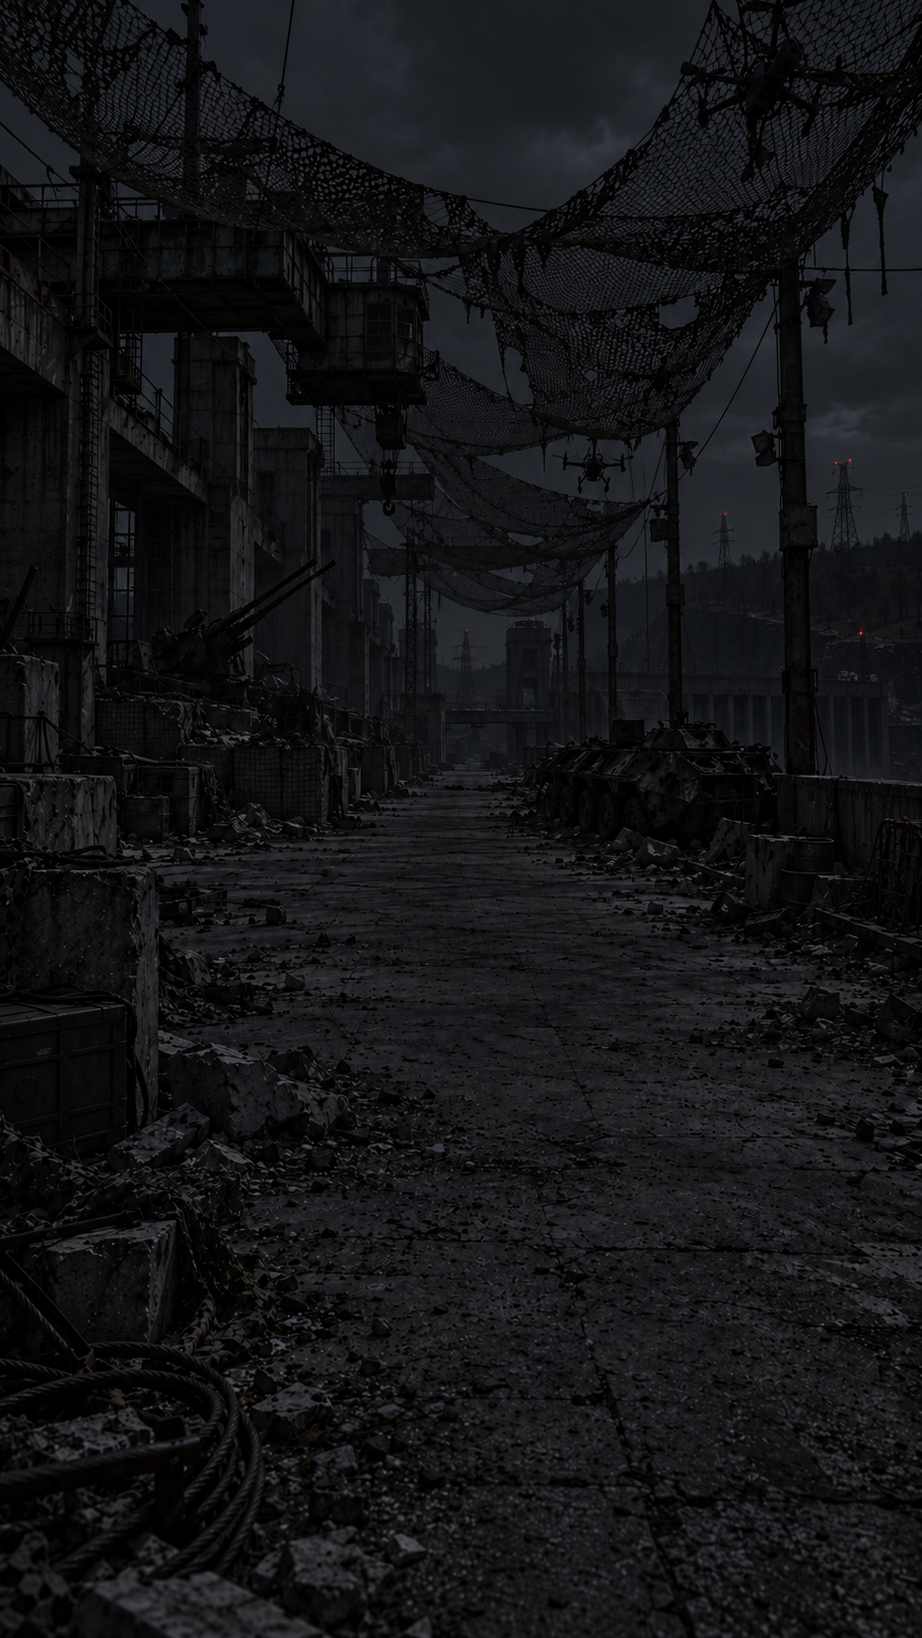
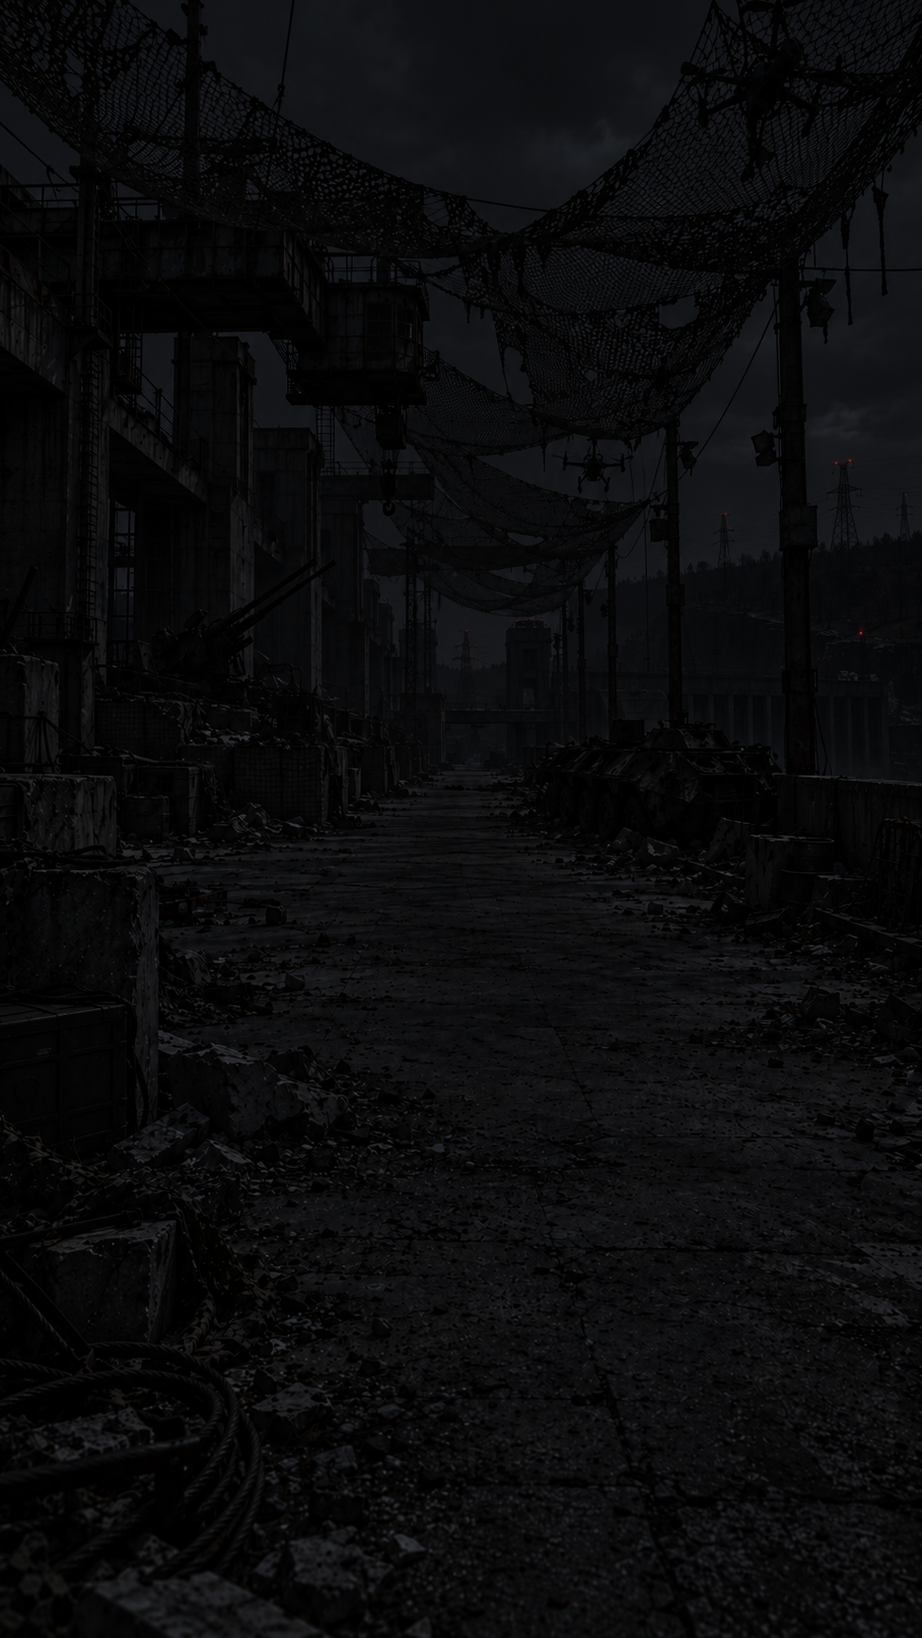
Darker street nights and menu pickers for time and weather
Night plates of the Blocks, the Dam and the Dry Bed now sit at the salt hall's night brightness. The battle menu can pin the time of day and the weather for testing; the pick holds on every map until 'По часам' is chosen and restarts the fight with the same kit.

Changed region(s): [[0.4315, 0.933, 0.4623, 0.9641], [0.2465, 0.622, 0.2774, 0.6531], [0.1849, 0.9952, 0.2157, 1.0]]

diff --git a/apps/web/test/browser-battle-rust.test.ts b/apps/web/test/browser-battle-rust.test.ts
@@ -310,6 +310,41 @@ test("map changes preserve the fitted kit and move to that map's own hour", asyn
   assert.equal(h.stored.get("cd-map"), "dryBed");
 }, { now: MIDNIGHT + GAME_HOUR / 60 }));
 
+test("menu time and weather pickers override the clock until it is chosen again", async () => harness(async h => {
+  const kit = { ...starterLoadout("rifle"), head: "head-sych" };
+  const start = h.battle!.start(kit, () => {}, async () => {}, undefined); await h.ready(); await start;
+  assert.equal(h.duel().match.config.time, "night");
+  h.click("moreBtn");
+  const names = (seg: string) => [...h.element(seg).children].map(b => b.innerHTML);
+  assert.deepEqual(names("timeSeg"), ["По часам", "Утро", "День", "Вечер", "Ночь"]);
+  assert.deepEqual(names("weatherSeg"), ["По часам", "Ясно", "Туман", "Пыль", "Гроза"]);
+  assert.equal(h.element("timeSeg").children[0]!.getAttribute("aria-pressed"), "true");
+  const first = h.duel();
+  h.element("timeSeg").children[2]!.click();
+  assert.notEqual(h.duel(), first, "a pick starts a new fight");
+  assert.deepEqual(h.duel().fighters[0].kit, kit);
+  assert.equal(h.duel().match.config.time, "day");
+  assert.equal(h.stored.get("cd-test-time"), "day");
+  h.click("moreBtn");
+  h.element("weatherSeg").children[4]!.click();
+  assert.equal(h.duel().match.config.weather, "storm");
+  assert.equal(h.duel().match.config.time, "day", "the time pick holds");
+  h.click("moreBtn");
+  assert.equal(h.element("weatherSeg").children[4]!.getAttribute("aria-pressed"), "true");
+  assert.match(h.element("clockNote").textContent, /отключены/);
+  h.element("mapSeg").children[1]!.click();
+  assert.equal(h.duel().match.config.mapId, "blocks");
+  assert.equal(h.duel().match.config.weather, "storm", "picks follow to another map");
+  h.click("moreBtn");
+  h.element("timeSeg").children[0]!.click();
+  h.click("moreBtn");
+  h.element("weatherSeg").children[0]!.click();
+  assert.equal(h.stored.get("cd-test-time"), "");
+  assert.equal(h.duel().match.config.weather, world(h.now, "blocks").weather);
+  h.click("moreBtn");
+  assert.doesNotMatch(h.element("clockNote").textContent, /отключены/);
+}, { now: MIDNIGHT + GAME_HOUR / 60 }));
+
 test("saved blocks map is restored at its own hour", async () => harness(async h => {
   assert.equal(h.duel().match.config.mapId, "blocks");
   assert.equal(h.duel().match.config.time, "day");

diff --git a/apps/web/index.html b/apps/web/index.html
@@ -158,6 +158,8 @@
       <div class="label" id="mapLabel">Карта</div>
       <div class="seg" id="mapSeg"></div>
       <div class="label" id="frameLabel">Время и погода</div>
+      <div class="seg" id="timeSeg"></div>
+      <div class="seg" id="weatherSeg"></div>
       <p class="gfx-note" id="clockNote"></p>
       <p class="gfx-note" id="conditionNote"></p>
       <p class="gfx-note">Сутки в игре длятся час, у каждой карты своё время и своя погода. Выбор карты начинает новый бой с вашим комплектом.</p>

diff --git a/crates/game-wasm/src/browser/battle.rs b/crates/game-wasm/src/browser/battle.rs
@@ -1161,19 +1161,28 @@ fn option(parent: &JsValue, content: &str, selected: bool, action: impl FnMut(Js
     call(parent, "appendChild", &[b]);
 }
 /// The game clock picks the map's hour and weather. Address keys (`time`,
-/// `weather`, `frame`, `map`, `cal`) pin them for checks and screenshots.
+/// `weather`, `frame`, `map`, `cal`) pin them for checks and screenshots; the
+/// menu's test pickers pin time and weather until "По часам" is chosen again.
 fn live_frame(s: &JsValue, map: Option<&str>) -> JsValue {
     let params = construct(
         &get(&global(), "URLSearchParams"),
         &[get(&get(&global(), "location"), "search")],
     );
     let param = |key: &str| call(&params, "get", &[key.into()]);
+    let pinned = |key: &str, stored: &str| {
+        let value = param(key);
+        if value.is_null() {
+            store_get(s, stored)
+        } else {
+            value
+        }
+    };
     core(
         "client.conditions.live",
         &[
             get(s, "frames"),
             object(&[
-                ("time", param("time")),
+                ("time", pinned("time", "cd-test-time")),
                 (
                     "frame",
                     if map.is_some() {
@@ -1185,7 +1194,7 @@ fn live_frame(s: &JsValue, map: Option<&str>) -> JsValue {
                 ("cal", call(&params, "has", &["cal".into()])),
                 ("map", map.map_or_else(|| param("map"), JsValue::from)),
                 ("savedMap", store_get(s, "cd-map")),
-                ("weather", param("weather")),
+                ("weather", pinned("weather", "cd-test-weather")),
                 ("now", js_sys::Date::now().into()),
             ]),
         ],
@@ -1393,6 +1402,34 @@ fn render_menu(s: &JsValue) {
     }
     let c = clock_of(&current_map);
     hide(&id("frameLabel"), false);
+    // Test pickers: a choice holds until "По часам" and starts a new fight with the same kit.
+    let picks = core(
+        "client.conditions.picks",
+        &[get(s, "frames"), current_map.as_str().into()],
+    );
+    let mut manual = false;
+    for (seg, key, list) in [
+        ("timeSeg", "cd-test-time", "times"),
+        ("weatherSeg", "cd-test-weather", "weathers"),
+    ] {
+        let chosen = store_get(s, key).as_string().unwrap_or_default();
+        let options = values(&get(&picks, list));
+        let known = options.iter().any(|o| word(o, "id") == chosen);
+        manual |= known && !chosen.is_empty();
+        let row = segment(seg, options.len());
+        for choice in options {
+            let wanted = word(&choice, "id");
+            let current = wanted == chosen || (!known && wanted.is_empty());
+            let state = s.clone();
+            let map = current_map.clone();
+            option(&row, &word(&choice, "name"), current, move |_| {
+                if !current {
+                    store_set(&state, key, &wanted);
+                    choose_map(&state, &map);
+                }
+            });
+        }
+    }
     let weather_next = if word(&c, "nextWeather") == word(&c, "weather") {
         format!(
             "{} ещё {}",
@@ -1406,9 +1443,15 @@ fn render_menu(s: &JsValue) {
             word(&c, "nextWeatherName")
         )
     };
-    text(
-        &id("clockNote"),
-        &format!(
+    let note = if manual {
+        format!(
+            "Часы на этой карте отключены вашим выбором. По часам сейчас было бы {}, {}, {}.",
+            word(&c, "clock"),
+            word(&c, "timeName"),
+            word(&c, "weatherName")
+        )
+    } else {
+        format!(
             "Сейчас {}, {}, {}. Через {} {}, {}. В регионе: {}.",
             word(&c, "clock"),
             word(&c, "timeName"),
@@ -1417,8 +1460,9 @@ fn render_menu(s: &JsValue) {
             word(&c, "nextTimeName"),
             weather_next,
             word(&c, "eventName").to_lowercase()
-        ),
-    );
+        )
+    };
+    text(&id("clockNote"), &note);
     text(
         &id("conditionNote"),
         &string(&core("client.conditions.description", &[match_(s)])),

diff --git a/crates/game-client/src/conditions.rs b/crates/game-client/src/conditions.rs
@@ -83,6 +83,30 @@ fn time_choices(frames: Option<&Vec<Value>>, map: &str) -> Value {
         .collect::<Vec<_>>())
 }
 
+/// The menu's test pickers: the clock first, then each drawn time of the map and
+/// every weather. An empty id means "follow the map's game clock".
+fn picks(frames: Option<&Vec<Value>>, map: &str) -> Value {
+    let clock = json!({"id": "", "name": "По часам"});
+    let mut times = vec![clock.clone()];
+    times.extend(
+        time_choices(frames, map)
+            .as_array()
+            .cloned()
+            .unwrap_or_default(),
+    );
+    // Short names: five buttons share one row on a phone.
+    let mut weathers = vec![clock];
+    for (id, name) in [
+        ("clear", "Ясно"),
+        ("fog", "Туман"),
+        ("dust", "Пыль"),
+        ("storm", "Гроза"),
+    ] {
+        weathers.push(json!({"id": id, "name": name}));
+    }
+    json!({"times": times, "weathers": weathers})
+}
+
 /// Maps that have a picture, in frame order, each with the catalogue region it belongs to.
 fn drawn_maps(frames: &[Value]) -> Vec<Value> {
     let constants = game_core::constants();
@@ -216,6 +240,7 @@ pub fn dispatch(method: &str, args: Value) -> Result<Value, String> {
                 .unwrap_or_default())
         }
         "client.conditions.choices" => time_choices(args[0].as_array(), text(&args[1])),
+        "client.conditions.picks" => picks(args[0].as_array(), text(&args[1])),
         "client.conditions.frame" => frame_for(
             args[0].as_array().ok_or("Conditions require frames")?,
             &args[1],
@@ -337,6 +362,16 @@ mod tests {
             regions,
             json!([{"id":"belyYar","name":"Белый Яр"},{"id":"kaskad","name":"Каскад"}])
         );
+        let picks = dispatch("client.conditions.picks", json!([frames(), "blocks"])).unwrap();
+        assert_eq!(picks["times"][0], json!({"id": "", "name": "По часам"}));
+        assert_eq!(picks["times"][1]["id"], "day");
+        let weathers: Vec<&str> = picks["weathers"]
+            .as_array()
+            .unwrap()
+            .iter()
+            .map(|w| text(&w["name"]))
+            .collect();
+        assert_eq!(weathers, ["По часам", "Ясно", "Туман", "Пыль", "Гроза"]);
         let choices = dispatch("client.conditions.choices", json!([frames(), "blocks"])).unwrap();
         assert_eq!(choices.as_array().unwrap().len(), 1);
         assert_eq!(choices[0]["id"], "day");

diff --git a/HANDOFF.md b/HANDOFF.md
@@ -1,6 +1,6 @@
 # Crowned Dogs: передача проекта в Claude Code
 
-Игровые часы и погода, 2 ноября 2026: **сутки в игре длятся один реальный час** (по UTC, у всех устройств одно время), утро 04:00, день 10:00, вечер 16:00, ночь 22:00, каждая четверть по 15 минут. Время карты в бою берётся с часов, ручного выбора времени в меню больше нет; кнопки карт показывают её часы, время и погоду. Карты сдвинуты по суткам: цех +0 ч, Пятиэтажки +12, Плотина +6, Сухое дно +18 (`map_offset` в `crates/game-client/src/world.rs`). Погода держится 4 игровых часа (10 минут) и выпадает по шансам события региона на эти сутки (`REGION_EVENTS`). В бою её видно: туман растёт с глубиной, соляная пыль идёт порывами с крупинками, гроза темнит и даёт молнии с громом (`thunder`), дождь только на улице, в цехе его нет. Шейдер — `crates/game-wasm/src/browser/shaders/weather.glsl`, сила по времени суток — `world::fx`. Адрес `?time=..&weather=..` по-прежнему фиксирует условия для проверок. Снимки — `research/weather-looks.png` в папке Арта.
+Игровые часы и погода, 2 ноября 2026: **сутки в игре длятся один реальный час** (по UTC, у всех устройств одно время), утро 04:00, день 10:00, вечер 16:00, ночь 22:00, каждая четверть по 15 минут. Время карты в бою берётся с часов; кнопки карт показывают её часы, время и погоду. Для проверки в меню под «Время и погода» есть два ряда кнопок: время (по часам, утро, день, вечер, ночь) и погода (по часам, ясно, туман, пыль, гроза); выбор держится на всех картах (`cd-test-time`, `cd-test-weather`), пока не нажать «По часам», и начинает новый бой с тем же комплектом. Карты сдвинуты по суткам: цех +0 ч, Пятиэтажки +12, Плотина +6, Сухое дно +18 (`map_offset` в `crates/game-client/src/world.rs`). Погода держится 4 игровых часа (10 минут) и выпадает по шансам события региона на эти сутки (`REGION_EVENTS`). В бою её видно: туман растёт с глубиной, соляная пыль идёт порывами с крупинками, гроза темнит и даёт молнии с громом (`thunder`), дождь только на улице, в цехе его нет. Шейдер — `crates/game-wasm/src/browser/shaders/weather.glsl`, сила по времени суток — `world::fx`. Адрес `?time=..&weather=..` по-прежнему фиксирует условия для проверок. Снимки — `research/weather-looks.png` в папке Арта. Ночные кадры Пятиэтажек, Плотины и Сухого дна (`*-times/night/hall` и `clean`) затемнены до яркости ночного цеха (Арт: «ночные карты слишком светлые»), сравнение — `research/night-darker.png`.
 
 Регион Каскад, 2 ноября 2026 (ветка `claude/kaskad`): нарисованы и подключены «Плотина» (`dam`, предел 14) и «Сухое дно» (`dryBed`, предел 13), у каждой утро, день, вечер и ночь. Арт выбрал Плотину В (сетка от дронов над гребнем) и Сухое дно Б (коридор между баржей и буксиром). В меню боя появился выбор региона: «Белый Яр» и «Каскад». Сцены собраны как Пятиэтажки: Blender-сборщик [tools/kaskad-stage/README.md](tools/kaskad-stage/README.md), картинки и промпты — [docs/kaskad-art.md](docs/kaskad-art.md).
 
@@ -151,7 +151,7 @@ npm run web
 
 Сверено с `main` 2 ноября 2026 (0ccc6ed). Закрыл пункт — вычеркни его здесь же, в том же коммите: записи вверху файла этот список не обновляют. Подробности по направлениям в `docs/handoff/`.
 
-Уже сделано и отсюда убрано: камера по умолчанию от первого лица (`cd-camera`, «из-за плеча» в меню), две карты Белого Яра (Соляной цех и Пятиэтажки) и две карты Каскада (Плотина и Сухое дно) с утром, днём, вечером и ночью, выбор региона в меню боя, карты глубины и 2x-копии залов, все модули видны в Снаряжении, материалы модулей из плиток GPT на всех стволах (ae308ff), экран Снаряжения под телефон, игровые часы (сутки за час) и погода в бою, хваты от первого лица (пистолет, дробовик), ремень и кобура в Снаряжении, броня второй партии с цветом по предметам.
+Уже сделано и отсюда убрано: камера по умолчанию от первого лица (`cd-camera`, «из-за плеча» в меню), две карты Белого Яра (Соляной цех и Пятиэтажки) и две карты Каскада (Плотина и Сухое дно) с утром, днём, вечером и ночью, выбор региона в меню боя, карты глубины и 2x-копии залов, все модули видны в Снаряжении, материалы модулей из плиток GPT на всех стволах (ae308ff), экран Снаряжения под телефон, игровые часы (сутки за час) и погода в бою, выбор времени и погоды в меню для проверки, тёмная ночь на улицах, хваты от первого лица (пистолет, дробовик), ремень и кобура в Снаряжении, броня второй партии с цветом по предметам.
 
 ### Отложено Артом (2.11)
 

diff --git a/docs/battle-times-mechanics.md b/docs/battle-times-mechanics.md
@@ -19,7 +19,7 @@
 
 У обеих карт доступны все четыре времени. Меню строит варианты по существующим кадрам. Запрос `?map=blocks&time=night` выбирает ночной двор с ночными правилами; переход из ночного цеха во двор сохраняет ночь. Для каждого времени двора предусмотрены свои цветовые карты, но калибровка камеры, геометрия и размещение бойцов общие.
 
-В игре карта выбирается в меню боя, а время и погоду задают игровые часы (2 ноября 2026: сутки за реальный час, `crates/game-client/src/world.rs`, маршрут `client.conditions.live`). Выбор карты начинает новый бой с тем же комплектом; каждый новый бой берёт текущее время и погоду карты. `cd-map` хранит выбранную карту, `cd-time` больше не читается. Адрес `?time=` и `?weather=` фиксирует условия для проверок.
+В игре карта выбирается в меню боя, а время и погоду задают игровые часы (2 ноября 2026: сутки за реальный час, `crates/game-client/src/world.rs`, маршрут `client.conditions.live`). Выбор карты начинает новый бой с тем же комплектом; каждый новый бой берёт текущее время и погоду карты. `cd-map` хранит выбранную карту, `cd-time` больше не читается. Адрес `?time=` и `?weather=` фиксирует условия для проверок. В меню те же условия можно закрепить кнопками времени и погоды (`client.conditions.picks`, ключи `cd-test-time` и `cd-test-weather`); «По часам» возвращает часы. Адрес сильнее кнопок.
 
 ## Регион «Каскад»
 
